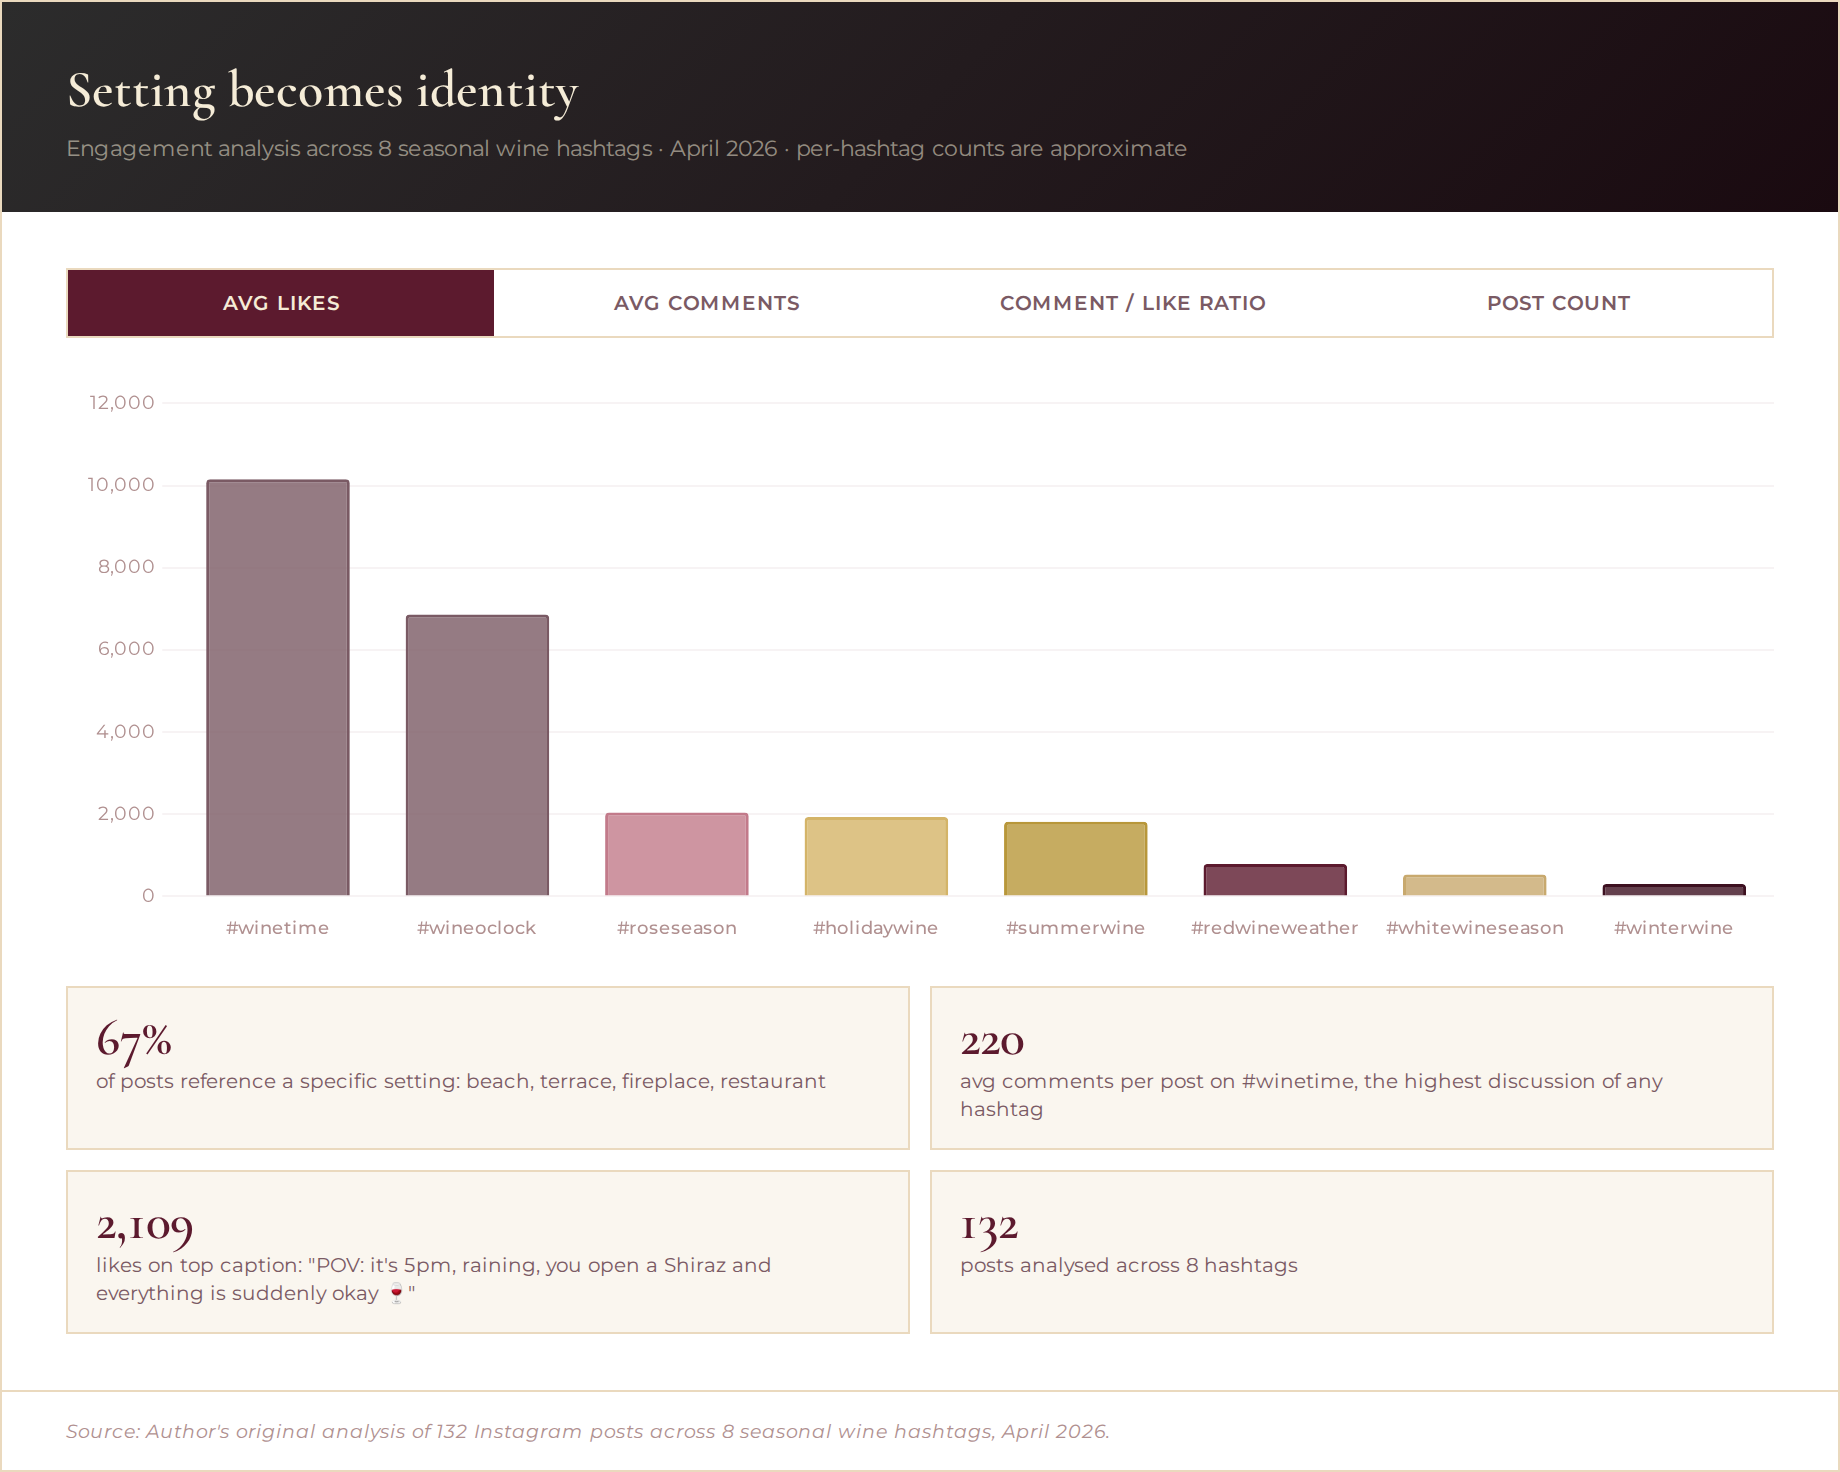
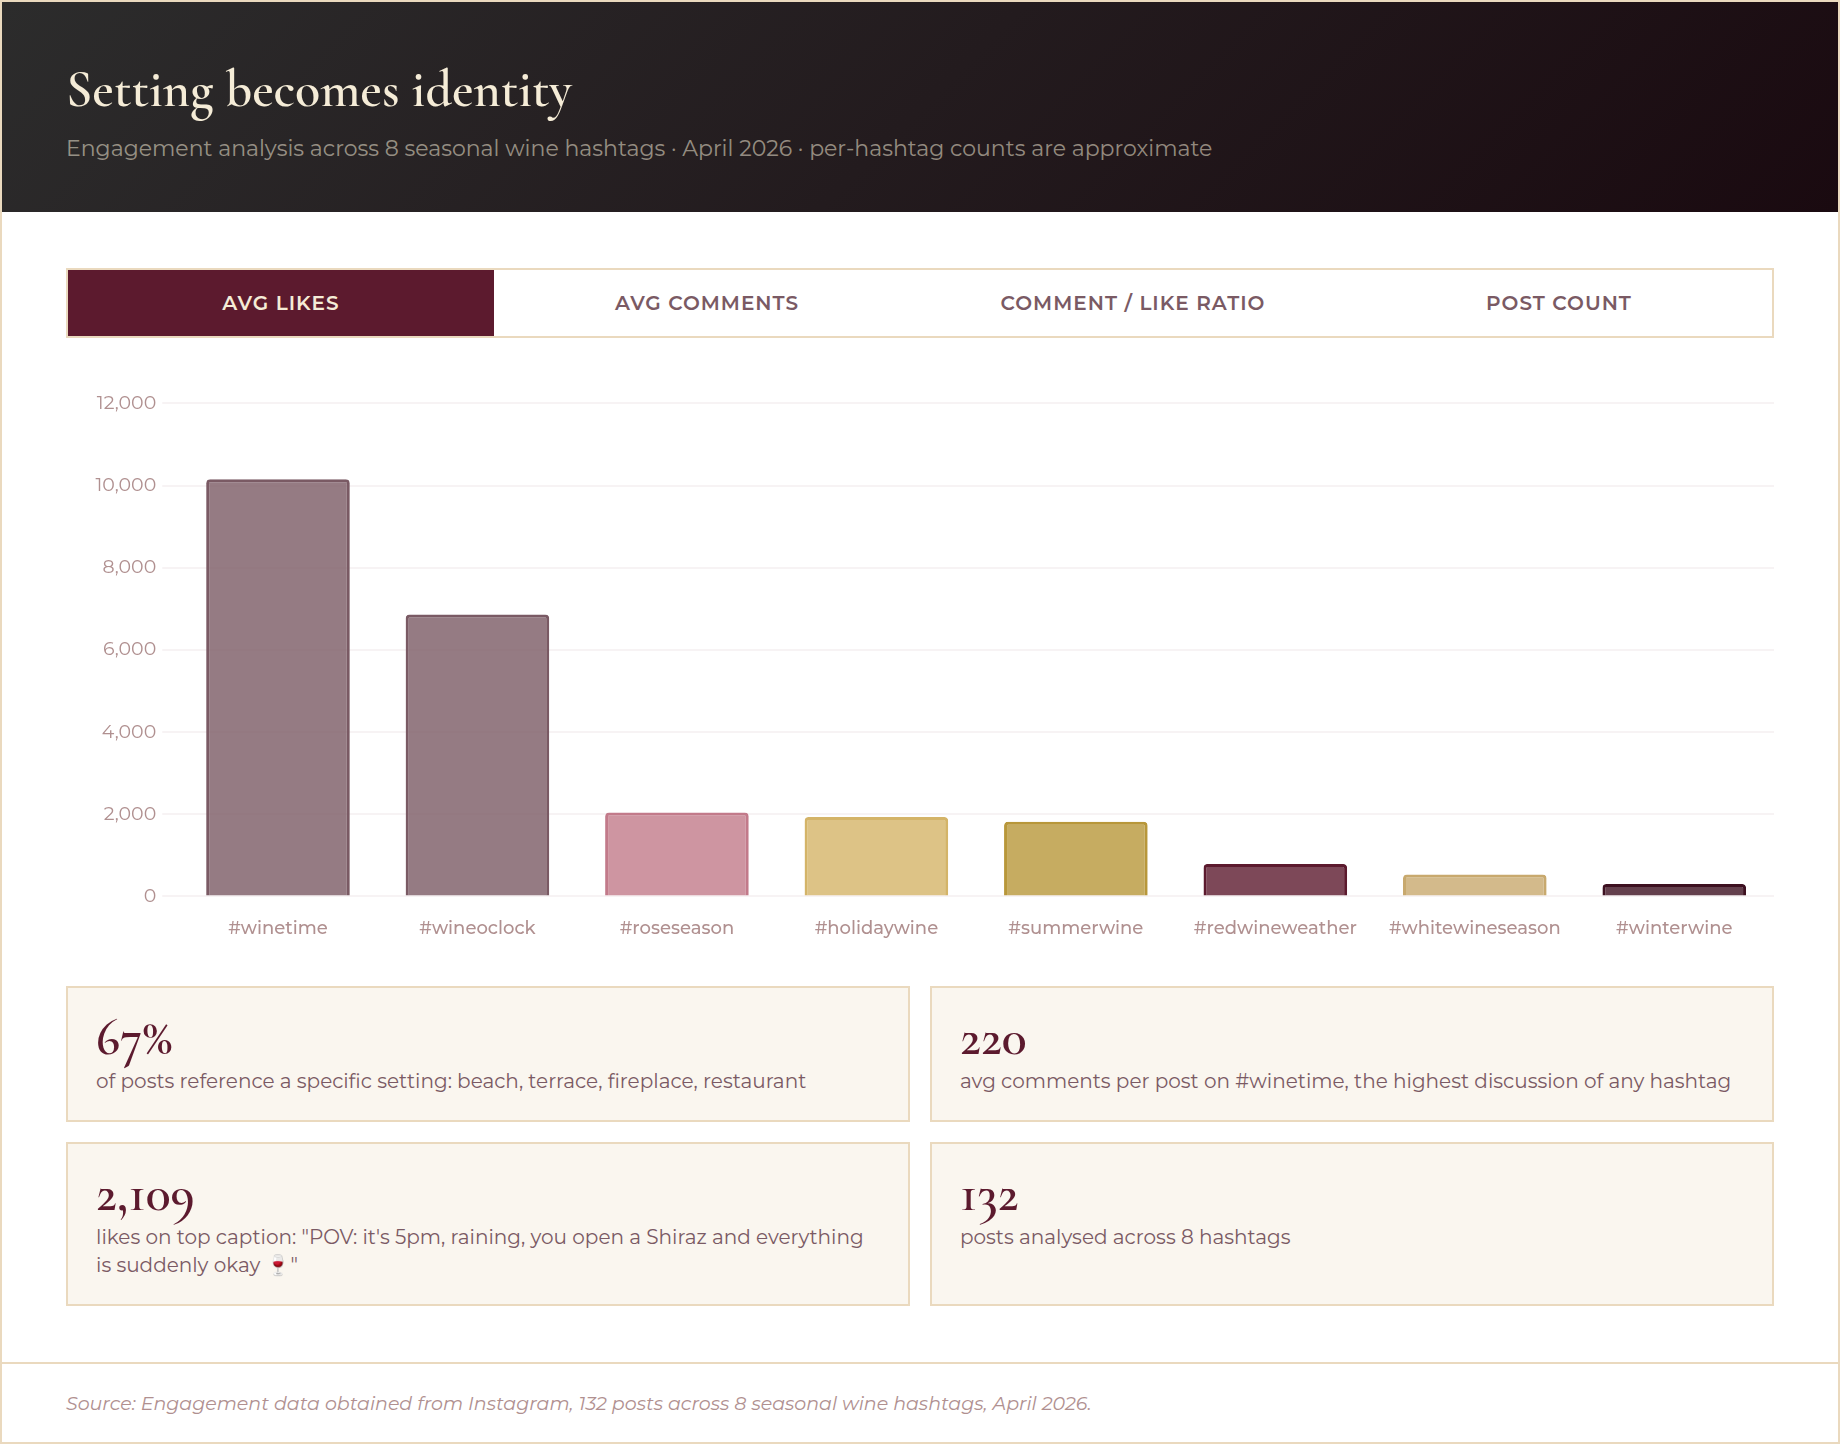
Sync Piece 1 and Piece 2 visual copies with the live source footers, add Piece 2 static images
Claude-Session: https://claude.ai/code/session_01NnUSc1ZvhPD94qtAcJMvNd

diff --git a/Wine Substack/Piece 2/visual_story_over_status.html b/Wine Substack/Piece 2/visual_story_over_status.html
@@ -714,7 +714,7 @@
     <div class="detail-box" id="detailBox"></div>
 
     <div class="footer">
-      Source: Original analysis of 4,872 words of wine community discussion, June 2026.
+      Source: Wine community discussion obtained from Reddit r/wine, 2022 to 2026, retrieved June 2026.
     </div>
   </div>
 

diff --git a/Wine Substack/Piece 1 visuals/visual_instagram.html b/Wine Substack/Piece 1 visuals/visual_instagram.html
@@ -96,7 +96,7 @@
   </div>
 
   <div class="footer">
-    Source: Author's original analysis of 132 Instagram posts across 8 seasonal wine hashtags, April 2026.
+    Source: Engagement data obtained from Instagram, 132 posts across 8 seasonal wine hashtags, April 2026.
   </div>
 </div>
 

diff --git a/Wine Substack/Piece 1 visuals/visual_seasonal_instinct.html b/Wine Substack/Piece 1 visuals/visual_seasonal_instinct.html
@@ -134,7 +134,7 @@
   </div>
 
   <div class="footer">
-    Source: Author's original analysis of 452 Reddit comments across 17 r/wine threads, April 2026.
+    Source: Wine community discussion obtained from Reddit r/wine, 452 comments across 17 threads, April 2026.
   </div>
 </div>
 

diff --git a/Wine Substack/Piece 2/static/README.md b/Wine Substack/Piece 2/static/README.md
@@ -1,0 +1,72 @@
+# Piece 2 static images, The Reward for Curiosity
+
+Generated 1 September 2026 for the Substack post. Substack cannot render iframes,
+so these are the static stand-ins for the five interactive visuals, plus one image
+per data callout and per quote in the article.
+
+## Render settings
+
+Visuals: viewport 920 CSS px, device scale factor 2, full-page capture. Output 1840 px wide.
+Boxes:   element capture at 900 CSS px, device scale factor 2. Output 1800 px wide.
+
+Matches the Piece 1 exports, which were 1840 px for the visuals and 1800 px for the boxes.
+
+## Visuals
+
+Each visual has a default state. Files without a suffix are that default. Suffixed files
+are the other interactive states, exported because they carry data the default hides.
+
+| File | State |
+| :-- | :-- |
+| visual_palate_arc.png | The Journey tab. Diagram only: tab nav, hover hint and phase detail card removed |
+| visual_palate_arc_data.png | The Data tab |
+| visual_price_quality.png | The price halo view, default. Shows both lines |
+| visual_price_quality_visible.png | Price visible only |
+| visual_price_quality_hidden.png | Price hidden only |
+| visual_curiosity_ladder.png | Ladder only: rung detail panel removed, no rung highlighted, the 'click a rung' instruction stripped |
+| visual_curiosity_ladder_rung2.png | Rung 2, with its detail panel. Taller than the default |
+| visual_curiosity_ladder_rung3.png | Rung 3, with its detail panel. Taller than the default |
+| visual_story_over_status.png | Card 1, default |
+| visual_story_over_status_card2.png | Card 2 |
+| visual_story_over_status_card3.png | Card 3, tradition as foundation |
+| visual_where_value_lives.png | Drinkers view, default |
+| visual_where_value_lives_top100.png | Top 100 view |
+
+Suggested minimum set for the post: the five defaults, plus visual_palate_arc_data.png,
+visual_where_value_lives_top100.png, and the two extra story_over_status cards. The two
+extra price_quality views are the least necessary, since the default already draws both lines.
+
+Updated 1 September 2026: the curiosity ladder and palate arc defaults were re-rendered
+without their interaction panels, which made both too tall for a post. The ladder dropped
+from 2052 px to 1498 px and the palate arc from 2508 px to 1874 px. The rung variants still
+carry their detail panels, so they read as a different treatment from the new default.
+
+Hover-only detail does not survive a static export. Link out to the interactive version.
+
+## Boxes
+
+Twenty files in boxes/, numbered in the order they appear in the article. Ten data
+callouts and ten quotes. Text is taken verbatim from the published article page, so
+the images and the website cannot drift apart.
+
+Data boxes carry the reference superscript from the article plus a short source line
+underneath, in the style used for Piece 1.
+
+Quote boxes match the Piece 1 geometry exactly: Cormorant Garamond italic at 22px on a
+30px line, padding 29/35/30/34, a 3px burgundy left rule, and the meta line 11px below
+the quote. One line of quote gives a 230 px box, two gives 290, three gives 350. This
+style is settled. Do not change it on future pieces.
+
+## Fonts
+
+Rendered with the real Cormorant Garamond and Montserrat. The Piece 1 boxes were
+rendered before those fonts were available locally and fell back to system faces, so
+the Piece 2 boxes are slightly different in the body text. The layout, colours and
+sizes are unchanged. Piece 1 can be re-rendered to match on request.
+
+## Regenerating
+
+Chart.js and the twenty font faces are vendored at render time. The Cowork sandbox has
+no egress to cdnjs or Google Fonts, so the assets come from npm: chart.js,
+@fontsource/cormorant-garamond, @fontsource/montserrat. The authored HTML in
+Wine Substack/Piece 2/ is never modified. Rendering works on a copy.
